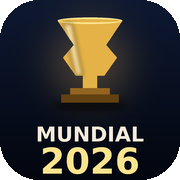
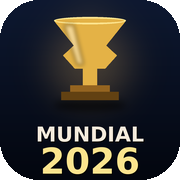
v1.7.1: ícono maskable rediseñado para no recortarse en Android
Problema reportado: al guardar en home de Android, el ícono mostraba
el texto MUNDIAL 2026 recortado por la máscara squircle del launcher,
y a veces aparecía el logo de Chrome encima (modo "shortcut", no PWA).

Cambios:
- ícono maskable rediseñado: solo el trofeo bien centrado, SIN texto,
  con todo el contenido importante dentro del cuadrado central del 56%
  del canvas (que es la zona segura para cualquier máscara que use
  Android — círculo, squircle, redondeada, etc.).
- Se agregan dos archivos: icon-192-maskable.png e
  icon-512-maskable.png con el diseño tight.
- Los íconos "any" (icon-{100,180,192,512}.png) mantienen el diseño
  con texto MUNDIAL + 2026, porque se usan en barras de navegador,
  favicon, y otros contextos donde no se aplica máscara.
- manifest.webmanifest ahora declara ambos tamaños de maskable
  (192 + 512) para máxima compatibilidad con Android Chrome.
- sw.js precachea el nuevo icon-192-maskable.png.

Cache busting v=1.7.1 + CACHE_VERSION='album-2026-v1.7.1'.

NOTA AL USUARIO: el logo de Chrome encima del ícono indica que la app
se guardó como "shortcut" en lugar de instalarse como PWA. La solución:
desinstalar el shortcut y volver a abrir https://rundes.github.io/Mundial2026/
en Chrome, entrar a la pestaña Compartir y tocar el botón
"Instalar en mi celular" (o el menú ⋮ → "Instalar aplicación"),
en vez de usar "Agregar a pantalla de inicio".

diff --git a/index.html b/index.html
@@ -36,10 +36,10 @@
 
 <link rel="canonical" href="https://rundes.github.io/Mundial2026/">
 
-<link rel="icon" type="image/png" sizes="100x100" href="./icons/icon-100.png?v=1.7.0">
-<link rel="icon" type="image/png" sizes="192x192" href="./icons/icon-192.png?v=1.7.0">
-<link rel="apple-touch-icon" sizes="180x180" href="./icons/icon-180.png?v=1.7.0">
-<link rel="manifest" href="./manifest.webmanifest?v=1.7.0">
+<link rel="icon" type="image/png" sizes="100x100" href="./icons/icon-100.png?v=1.7.1">
+<link rel="icon" type="image/png" sizes="192x192" href="./icons/icon-192.png?v=1.7.1">
+<link rel="apple-touch-icon" sizes="180x180" href="./icons/icon-180.png?v=1.7.1">
+<link rel="manifest" href="./manifest.webmanifest?v=1.7.1">
 <title>Mi Álbum Mundial 2026</title>
 <style>
 *,:after,:before{--tw-border-spacing-x:0;--tw-border-spacing-y:0;--tw-translate-x:0;--tw-translate-y:0;--tw-rotate:0;--tw-skew-x:0;--tw-skew-y:0;--tw-scale-x:1;--tw-scale-y:1;--tw-pan-x: ;--tw-pan-y: ;--tw-pinch-zoom: ;--tw-scroll-snap-strictness:proximity;--tw-gradient-from-position: ;--tw-gradient-via-position: ;--tw-gradient-to-position: ;--tw-ordinal: ;--tw-slashed-zero: ;--tw-numeric-figure: ;--tw-numeric-spacing: ;--tw-numeric-fraction: ;--tw-ring-inset: ;--tw-ring-offset-width:0px;--tw-ring-offset-color:#fff;--tw-ring-color:rgba(59,130,246,.5);--tw-ring-offset-shadow:0 0 #0000;--tw-ring-shadow:0 0 #0000;--tw-shadow:0 0 #0000;--tw-shadow-colored:0 0 #0000;--tw-blur: ;--tw-brightness: ;--tw-contrast: ;--tw-grayscale: ;--tw-hue-rotate: ;--tw-invert: ;--tw-saturate: ;--tw-sepia: ;--tw-drop-shadow: ;--tw-backdrop-blur: ;--tw-backdrop-brightness: ;--tw-backdrop-contrast: ;--tw-backdrop-grayscale: ;--tw-backdrop-hue-rotate: ;--tw-backdrop-invert: ;--tw-backdrop-opacity: ;--tw-backdrop-saturate: ;--tw-backdrop-sepia: ;--tw-contain-size: ;--tw-contain-layout: ;--tw-contain-paint: ;--tw-contain-style: }::backdrop{--tw-border-spacing-x:0;--tw-border-spacing-y:0;--tw-translate-x:0;--tw-translate-y:0;--tw-rotate:0;--tw-skew-x:0;--tw-skew-y:0;--tw-scale-x:1;--tw-scale-y:1;--tw-pan-x: ;--tw-pan-y: ;--tw-pinch-zoom: ;--tw-scroll-snap-strictness:proximity;--tw-gradient-from-position: ;--tw-gradient-via-position: ;--tw-gradient-to-position: ;--tw-ordinal: ;--tw-slashed-zero: ;--tw-numeric-figure: ;--tw-numeric-spacing: ;--tw-numeric-fraction: ;--tw-ring-inset: ;--tw-ring-offset-width:0px;--tw-ring-offset-color:#fff;--tw-ring-color:rgba(59,130,246,.5);--tw-ring-offset-shadow:0 0 #0000;--tw-ring-shadow:0 0 #0000;--tw-shadow:0 0 #0000;--tw-shadow-colored:0 0 #0000;--tw-blur: ;--tw-brightness: ;--tw-contrast: ;--tw-grayscale: ;--tw-hue-rotate: ;--tw-invert: ;--tw-saturate: ;--tw-sepia: ;--tw-drop-shadow: ;--tw-backdrop-blur: ;--tw-backdrop-brightness: ;--tw-backdrop-contrast: ;--tw-backdrop-grayscale: ;--tw-backdrop-hue-rotate: ;--tw-backdrop-invert: ;--tw-backdrop-opacity: ;--tw-backdrop-saturate: ;--tw-backdrop-sepia: ;--tw-contain-size: ;--tw-contain-layout: ;--tw-contain-paint: ;--tw-contain-style: }/*! tailwindcss v3.4.16 | MIT License | https://tailwindcss.com*/*,:after,:before{box-sizing:border-box;border:0 solid #e5e7eb}:after,:before{--tw-content:""}:host,html{line-height:1.5;-webkit-text-size-adjust:100%;-moz-tab-size:4;-o-tab-size:4;tab-size:4;font-family:ui-sans-serif,system-ui,sans-serif,Apple Color Emoji,Segoe UI Emoji,Segoe UI Symbol,Noto Color Emoji;font-feature-settings:normal;font-variation-settings:normal;-webkit-tap-highlight-color:transparent}body{margin:0;line-height:inherit}hr{height:0;color:inherit;border-top-width:1px}abbr:where([title]){-webkit-text-decoration:underline dotted;text-decoration:underline dotted}h1,h2,h3,h4,h5,h6{font-size:inherit;font-weight:inherit}a{color:inherit;text-decoration:inherit}b,strong{font-weight:bolder}code,kbd,pre,samp{font-family:ui-monospace,SFMono-Regular,Menlo,Monaco,Consolas,Liberation Mono,Courier New,monospace;font-feature-settings:normal;font-variation-settings:normal;font-size:1em}small{font-size:80%}sub,sup{font-size:75%;line-height:0;position:relative;vertical-align:baseline}sub{bottom:-.25em}sup{top:-.5em}table{text-indent:0;border-color:inherit;border-collapse:collapse}button,input,optgroup,select,textarea{font-family:inherit;font-feature-settings:inherit;font-variation-settings:inherit;font-size:100%;font-weight:inherit;line-height:inherit;letter-spacing:inherit;color:inherit;margin:0;padding:0}button,select{text-transform:none}button,input:where([type=button]),input:where([type=reset]),input:where([type=submit]){-webkit-appearance:button;background-color:transparent;background-image:none}:-moz-focusring{outline:auto}:-moz-ui-invalid{box-shadow:none}progress{vertical-align:baseline}::-webkit-inner-spin-button,::-webkit-outer-spin-button{height:auto}[type=search]{-webkit-appearance:textfield;outline-offset:-2px}::-webkit-search-decoration{-webkit-appearance:none}::-webkit-file-upload-button{-webkit-appearance:button;font:inherit}summary{display:list-item}blockquote,dd,dl,figure,h1,h2,h3,h4,h5,h6,hr,p,pre{margin:0}fieldset{margin:0}fieldset,legend{padding:0}menu,ol,ul{list-style:none;margin:0;padding:0}dialog{padding:0}textarea{resize:vertical}input::-moz-placeholder,textarea::-moz-placeholder{opacity:1;color:#9ca3af}input::placeholder,textarea::placeholder{opacity:1;color:#9ca3af}[role=button],button{cursor:pointer}:disabled{cursor:default}audio,canvas,embed,iframe,img,object,svg,video{display:block;vertical-align:middle}img,video{max-width:100%;height:auto}[hidden]:where(:not([hidden=until-found])){display:none}.visible{visibility:visible}.collapse{visibility:collapse}.fixed{position:fixed}.absolute{position:absolute}.relative{position:relative}.sticky{position:sticky}.inset-0{inset:0}.inset-x-0{left:0;right:0}.-bottom-1{bottom:-.25rem}.left-1{left:.25rem}.left-1\/2{left:50%}.right-4{right:1rem}.top-0{top:0}.top-4{top:1rem}.z-20{z-index:20}.z-40{z-index:40}.z-50{z-index:50}.-mx-1{margin-left:-.25rem;margin-right:-.25rem}.mx-auto{margin-left:auto;margin-right:auto}.my-auto{margin-top:auto;margin-bottom:auto}.mb-0{margin-bottom:0}.mb-0\.5{margin-bottom:.125rem}.mb-1{margin-bottom:.25rem}.mb-2{margin-bottom:.5rem}.mb-3{margin-bottom:.75rem}.mb-4{margin-bottom:1rem}.mb-5{margin-bottom:1.25rem}.mb-6{margin-bottom:1.5rem}.mb-8{margin-bottom:2rem}.ml-1{margin-left:.25rem}.ml-2{margin-left:.5rem}.mr-1{margin-right:.25rem}.mr-2{margin-right:.5rem}.mt-0{margin-top:0}.mt-0\.5{margin-top:.125rem}.mt-1{margin-top:.25rem}.mt-1\.5{margin-top:.375rem}.mt-10{margin-top:2.5rem}.mt-12{margin-top:3rem}.mt-2{margin-top:.5rem}.mt-3{margin-top:.75rem}.mt-4{margin-top:1rem}.mt-5{margin-top:1.25rem}.line-clamp-2{overflow:hidden;display:-webkit-box;-webkit-box-orient:vertical;-webkit-line-clamp:2}.block{display:block}.inline-block{display:inline-block}.flex{display:flex}.table{display:table}.grid{display:grid}.hidden{display:none}.aspect-square{aspect-ratio:1/1}.h-1{height:.25rem}.h-1\.5{height:.375rem}.h-12{height:3rem}.h-14{height:3.5rem}.h-2{height:.5rem}.h-20{height:5rem}.h-4{height:1rem}.h-5{height:1.25rem}.h-7{height:1.75rem}.h-9{height:2.25rem}.h-full{height:100%}.max-h-20{max-height:5rem}.max-h-48{max-height:12rem}.w-1\.5{width:.375rem}.w-12{width:3rem}.w-14{width:3.5rem}.w-2{width:.5rem}.w-20{width:5rem}.w-28{width:7rem}.w-4{width:1rem}.w-5{width:1.25rem}.w-6{width:1.5rem}.w-7{width:1.75rem}.w-9{width:2.25rem}.w-\[calc\(100\%-2rem\)\]{width:calc(100% - 2rem)}.w-full{width:100%}.min-w-0{min-width:0}.max-w-3xl{max-width:48rem}.max-w-md{max-width:28rem}.max-w-sm{max-width:24rem}.flex-1{flex:1 1 0%}.shrink-0{flex-shrink:0}.border-collapse{border-collapse:collapse}.-translate-x-1{--tw-translate-x:-0.25rem}.-translate-x-1,.-translate-x-1\/2{transform:translate(var(--tw-translate-x),var(--tw-translate-y)) rotate(var(--tw-rotate)) skewX(var(--tw-skew-x)) skewY(var(--tw-skew-y)) scaleX(var(--tw-scale-x)) scaleY(var(--tw-scale-y))}.-translate-x-1\/2{--tw-translate-x:-50%}.transform{transform:translate(var(--tw-translate-x),var(--tw-translate-y)) rotate(var(--tw-rotate)) skewX(var(--tw-skew-x)) skewY(var(--tw-skew-y)) scaleX(var(--tw-scale-x)) scaleY(var(--tw-scale-y))}.cursor-pointer{cursor:pointer}.resize-none{resize:none}.resize{resize:both}.grid-cols-1{grid-template-columns:repeat(1,minmax(0,1fr))}.grid-cols-2{grid-template-columns:repeat(2,minmax(0,1fr))}.grid-cols-3{grid-template-columns:repeat(3,minmax(0,1fr))}.grid-cols-4{grid-template-columns:repeat(4,minmax(0,1fr))}.grid-cols-5{grid-template-columns:repeat(5,minmax(0,1fr))}.flex-col{flex-direction:column}.items-start{align-items:flex-start}.items-end{align-items:flex-end}.items-center{align-items:center}.items-baseline{align-items:baseline}.justify-center{justify-content:center}.justify-between{justify-content:space-between}.gap-1{gap:.25rem}.gap-1\.5{gap:.375rem}.gap-2{gap:.5rem}.gap-3{gap:.75rem}.gap-4{gap:1rem}.gap-x-1{-moz-column-gap:.25rem;column-gap:.25rem}.gap-x-1\.5{-moz-column-gap:.375rem;column-gap:.375rem}.gap-y-3{row-gap:.75rem}.space-y-1>:not([hidden])~:not([hidden]){--tw-space-y-reverse:0;margin-top:calc(.25rem*(1 - var(--tw-space-y-reverse)));margin-bottom:calc(.25rem*var(--tw-space-y-reverse))}.space-y-1\.5>:not([hidden])~:not([hidden]){--tw-space-y-reverse:0;margin-top:calc(.375rem*(1 - var(--tw-space-y-reverse)));margin-bottom:calc(.375rem*var(--tw-space-y-reverse))}.space-y-2>:not([hidden])~:not([hidden]){--tw-space-y-reverse:0;margin-top:calc(.5rem*(1 - var(--tw-space-y-reverse)));margin-bottom:calc(.5rem*var(--tw-space-y-reverse))}.space-y-3>:not([hidden])~:not([hidden]){--tw-space-y-reverse:0;margin-top:calc(.75rem*(1 - var(--tw-space-y-reverse)));margin-bottom:calc(.75rem*var(--tw-space-y-reverse))}.divide-x>:not([hidden])~:not([hidden]){--tw-divide-x-reverse:0;border-right-width:calc(1px*var(--tw-divide-x-reverse));border-left-width:calc(1px*(1 - var(--tw-divide-x-reverse)))}.divide-gray-100>:not([hidden])~:not([hidden]){--tw-divide-opacity:1;border-color:rgb(243 244 246/var(--tw-divide-opacity,1))}.overflow-hidden{overflow:hidden}.overflow-y-auto{overflow-y:auto}.truncate{overflow:hidden;text-overflow:ellipsis;white-space:nowrap}.break-all{word-break:break-all}.rounded{border-radius:.25rem}.rounded-2xl{border-radius:1rem}.rounded-3xl{border-radius:1.5rem}.rounded-full{border-radius:9999px}.rounded-lg{border-radius:.5rem}.rounded-md{border-radius:.375rem}.rounded-xl{border-radius:.75rem}.rounded-t-3xl{border-top-left-radius:1.5rem;border-top-right-radius:1.5rem}.border{border-width:1px}.border-2{border-width:2px}.border-4{border-width:4px}.border-b{border-bottom-width:1px}.border-b-2{border-bottom-width:2px}.border-t{border-top-width:1px}.border-amber-200{--tw-border-opacity:1;border-color:rgb(253 230 138/var(--tw-border-opacity,1))}.border-amber-300{--tw-border-opacity:1;border-color:rgb(252 211 77/var(--tw-border-opacity,1))}.border-amber-400{--tw-border-opacity:1;border-color:rgb(251 191 36/var(--tw-border-opacity,1))}.border-blue-200{--tw-border-opacity:1;border-color:rgb(191 219 254/var(--tw-border-opacity,1))}.border-blue-300{--tw-border-opacity:1;border-color:rgb(147 197 253/var(--tw-border-opacity,1))}.border-emerald-200{--tw-border-opacity:1;border-color:rgb(167 243 208/var(--tw-border-opacity,1))}.border-emerald-300{--tw-border-opacity:1;border-color:rgb(110 231 183/var(--tw-border-opacity,1))}.border-gray-100{--tw-border-opacity:1;border-color:rgb(243 244 246/var(--tw-border-opacity,1))}.border-gray-200{--tw-border-opacity:1;border-color:rgb(229 231 235/var(--tw-border-opacity,1))}.border-gray-300{--tw-border-opacity:1;border-color:rgb(209 213 219/var(--tw-border-opacity,1))}.border-green-200{--tw-border-opacity:1;border-color:rgb(187 247 208/var(--tw-border-opacity,1))}.border-indigo-200{--tw-border-opacity:1;border-color:rgb(199 210 254/var(--tw-border-opacity,1))}.border-indigo-300{--tw-border-opacity:1;border-color:rgb(165 180 252/var(--tw-border-opacity,1))}.border-pink-200{--tw-border-opacity:1;border-color:rgb(251 207 232/var(--tw-border-opacity,1))}.border-pink-300{--tw-border-opacity:1;border-color:rgb(249 168 212/var(--tw-border-opacity,1))}.border-purple-200{--tw-border-opacity:1;border-color:rgb(233 213 255/var(--tw-border-opacity,1))}.border-purple-300{--tw-border-opacity:1;border-color:rgb(216 180 254/var(--tw-border-opacity,1))}.border-red-400{--tw-border-opacity:1;border-color:rgb(248 113 113/var(--tw-border-opacity,1))}.border-rose-200{--tw-border-opacity:1;border-color:rgb(254 205 211/var(--tw-border-opacity,1))}.border-yellow-200{--tw-border-opacity:1;border-color:rgb(254 240 138/var(--tw-border-opacity,1))}.bg-amber-100{--tw-bg-opacity:1;background-color:rgb(254 243 199/var(--tw-bg-opacity,1))}.bg-amber-50{--tw-bg-opacity:1;background-color:rgb(255 251 235/var(--tw-bg-opacity,1))}.bg-amber-500{--tw-bg-opacity:1;background-color:rgb(245 158 11/var(--tw-bg-opacity,1))}.bg-amber-600{--tw-bg-opacity:1;background-color:rgb(217 119 6/var(--tw-bg-opacity,1))}.bg-black{--tw-bg-opacity:1;background-color:rgb(0 0 0/var(--tw-bg-opacity,1))}.bg-black\/60{background-color:rgba(0,0,0,.6)}.bg-black\/80{background-color:rgba(0,0,0,.8)}.bg-blue-50{--tw-bg-opacity:1;background-color:rgb(239 246 255/var(--tw-bg-opacity,1))}.bg-blue-500{--tw-bg-opacity:1;background-color:rgb(59 130 246/var(--tw-bg-opacity,1))}.bg-blue-600{--tw-bg-opacity:1;background-color:rgb(37 99 235/var(--tw-bg-opacity,1))}.bg-emerald-100{--tw-bg-opacity:1;background-color:rgb(209 250 229/var(--tw-bg-opacity,1))}.bg-emerald-50{--tw-bg-opacity:1;background-color:rgb(236 253 245/var(--tw-bg-opacity,1))}.bg-emerald-600{--tw-bg-opacity:1;background-color:rgb(5 150 105/var(--tw-bg-opacity,1))}.bg-gray-100{--tw-bg-opacity:1;background-color:rgb(243 244 246/var(--tw-bg-opacity,1))}.bg-gray-300{--tw-bg-opacity:1;background-color:rgb(209 213 219/var(--tw-bg-opacity,1))}.bg-gray-50{--tw-bg-opacity:1;background-color:rgb(249 250 251/var(--tw-bg-opacity,1))}.bg-gray-900{--tw-bg-opacity:1;background-color:rgb(17 24 39/var(--tw-bg-opacity,1))}.bg-green-600{--tw-bg-opacity:1;background-color:rgb(22 163 74/var(--tw-bg-opacity,1))}.bg-indigo-50{--tw-bg-opacity:1;background-color:rgb(238 242 255/var(--tw-bg-opacity,1))}.bg-indigo-600{--tw-bg-opacity:1;background-color:rgb(79 70 229/var(--tw-bg-opacity,1))}.bg-pink-500{--tw-bg-opacity:1;background-color:rgb(236 72 153/var(--tw-bg-opacity,1))}.bg-purple-50{--tw-bg-opacity:1;background-color:rgb(250 245 255/var(--tw-bg-opacity,1))}.bg-purple-600{--tw-bg-opacity:1;background-color:rgb(147 51 234/var(--tw-bg-opacity,1))}.bg-red-100{--tw-bg-opacity:1;background-color:rgb(254 226 226/var(--tw-bg-opacity,1))}.bg-red-50{--tw-bg-opacity:1;background-color:rgb(254 242 242/var(--tw-bg-opacity,1))}.bg-red-600{--tw-bg-opacity:1;background-color:rgb(220 38 38/var(--tw-bg-opacity,1))}.bg-rose-600{--tw-bg-opacity:1;background-color:rgb(225 29 72/var(--tw-bg-opacity,1))}.bg-transparent{background-color:transparent}.bg-white{--tw-bg-opacity:1;background-color:rgb(255 255 255/var(--tw-bg-opacity,1))}.bg-white\/10{background-color:hsla(0,0%,100%,.1)}.bg-white\/70{background-color:hsla(0,0%,100%,.7)}.bg-white\/95{background-color:hsla(0,0%,100%,.95)}.bg-yellow-50{--tw-bg-opacity:1;background-color:rgb(254 252 232/var(--tw-bg-opacity,1))}.bg-gradient-to-br{background-image:linear-gradient(to bottom right,var(--tw-gradient-stops))}.bg-gradient-to-r{background-image:linear-gradient(to right,var(--tw-gradient-stops))}.from-amber-400{--tw-gradient-from:#fbbf24 var(--tw-gradient-from-position);--tw-gradient-to:rgba(251,191,36,0) var(--tw-gradient-to-position);--tw-gradient-stops:var(--tw-gradient-from),var(--tw-gradient-to)}.from-amber-50{--tw-gradient-from:#fffbeb var(--tw-gradient-from-position);--tw-gradient-to:rgba(255,251,235,0) var(--tw-gradient-to-position);--tw-gradient-stops:var(--tw-gradient-from),var(--tw-gradient-to)}.from-emerald-50{--tw-gradient-from:#ecfdf5 var(--tw-gradient-from-position);--tw-gradient-to:rgba(236,253,245,0) var(--tw-gradient-to-position);--tw-gradient-stops:var(--tw-gradient-from),var(--tw-gradient-to)}.from-green-50{--tw-gradient-from:#f0fdf4 var(--tw-gradient-from-position);--tw-gradient-to:rgba(240,253,244,0) var(--tw-gradient-to-position);--tw-gradient-stops:var(--tw-gradient-from),var(--tw-gradient-to)}.from-indigo-50{--tw-gradient-from:#eef2ff var(--tw-gradient-from-position);--tw-gradient-to:rgba(238,242,255,0) var(--tw-gradient-to-position);--tw-gradient-stops:var(--tw-gradient-from),var(--tw-gradient-to)}.from-pink-50{--tw-gradient-from:#fdf2f8 var(--tw-gradient-from-position);--tw-gradient-to:rgba(253,242,248,0) var(--tw-gradient-to-position);--tw-gradient-stops:var(--tw-gradient-from),var(--tw-gradient-to)}.from-purple-600{--tw-gradient-from:#9333ea var(--tw-gradient-from-position);--tw-gradient-to:rgba(147,51,234,0) var(--tw-gradient-to-position);--tw-gradient-stops:var(--tw-gradient-from),var(--tw-gradient-to)}.from-rose-50{--tw-gradient-from:#fff1f2 var(--tw-gradient-from-position);--tw-gradient-to:rgba(255,241,242,0) var(--tw-gradient-to-position);--tw-gradient-stops:var(--tw-gradient-from),var(--tw-gradient-to)}.from-slate-900{--tw-gradient-from:#0f172a var(--tw-gradient-from-position);--tw-gradient-to:rgba(15,23,42,0) var(--tw-gradient-to-position);--tw-gradient-stops:var(--tw-gradient-from),var(--tw-gradient-to)}.via-fuchsia-500{--tw-gradient-to:rgba(217,70,239,0) var(--tw-gradient-to-position);--tw-gradient-stops:var(--tw-gradient-from),#d946ef var(--tw-gradient-via-position),var(--tw-gradient-to)}.to-blue-50{--tw-gradient-to:#eff6ff var(--tw-gradient-to-position)}.to-emerald-50{--tw-gradient-to:#ecfdf5 var(--tw-gradient-to-position)}.to-green-50{--tw-gradient-to:#f0fdf4 var(--tw-gradient-to-position)}.to-indigo-900{--tw-gradient-to:#312e81 var(--tw-gradient-to-position)}.to-orange-50{--tw-gradient-to:#fff7ed var(--tw-gradient-to-position)}.to-orange-500{--tw-gradient-to:#f97316 var(--tw-gradient-to-position)}.to-pink-50{--tw-gradient-to:#fdf2f8 var(--tw-gradient-to-position)}.to-pink-500{--tw-gradient-to:#ec4899 var(--tw-gradient-to-position)}.to-rose-50{--tw-gradient-to:#fff1f2 var(--tw-gradient-to-position)}.to-yellow-50{--tw-gradient-to:#fefce8 var(--tw-gradient-to-position)}.p-0{padding:0}.p-1{padding:.25rem}.p-3{padding:.75rem}.p-4{padding:1rem}.p-5{padding:1.25rem}.p-6{padding:1.5rem}.px-1{padding-left:.25rem;padding-right:.25rem}.px-1\.5{padding-left:.375rem;padding-right:.375rem}.px-2{padding-left:.5rem;padding-right:.5rem}.px-2\.5{padding-left:.625rem;padding-right:.625rem}.px-3{padding-left:.75rem;padding-right:.75rem}.px-4{padding-left:1rem;padding-right:1rem}.py-0{padding-top:0;padding-bottom:0}.py-0\.5{padding-top:.125rem;padding-bottom:.125rem}.py-1{padding-top:.25rem;padding-bottom:.25rem}.py-1\.5{padding-top:.375rem;padding-bottom:.375rem}.py-2{padding-top:.5rem;padding-bottom:.5rem}.py-2\.5{padding-top:.625rem;padding-bottom:.625rem}.py-3{padding-top:.75rem;padding-bottom:.75rem}.py-4{padding-top:1rem;padding-bottom:1rem}.py-6{padding-top:1.5rem;padding-bottom:1.5rem}.pb-12{padding-bottom:3rem}.pb-2{padding-bottom:.5rem}.pb-3{padding-bottom:.75rem}.pb-32{padding-bottom:8rem}.pb-5{padding-bottom:1.25rem}.pb-6{padding-bottom:1.5rem}.pb-8{padding-bottom:2rem}.pt-1{padding-top:.25rem}.pt-3{padding-top:.75rem}.pt-4{padding-top:1rem}.text-left{text-align:left}.text-center{text-align:center}.text-right{text-align:right}.align-text-bottom{vertical-align:text-bottom}.font-mono{font-family:ui-monospace,SFMono-Regular,Menlo,Monaco,Consolas,Liberation Mono,Courier New,monospace}.text-2xl{font-size:1.5rem;line-height:2rem}.text-3xl{font-size:1.875rem;line-height:2.25rem}.text-4xl{font-size:2.25rem;line-height:2.5rem}.text-\[10px\]{font-size:10px}.text-\[11px\]{font-size:11px}.text-\[8px\]{font-size:8px}.text-\[9px\]{font-size:9px}.text-base{font-size:1rem;line-height:1.5rem}.text-lg{font-size:1.125rem;line-height:1.75rem}.text-sm{font-size:.875rem;line-height:1.25rem}.text-xl{font-size:1.25rem;line-height:1.75rem}.text-xs{font-size:.75rem;line-height:1rem}.font-bold{font-weight:700}.font-medium{font-weight:500}.font-semibold{font-weight:600}.uppercase{text-transform:uppercase}.italic{font-style:italic}.tabular-nums{--tw-numeric-spacing:tabular-nums;font-variant-numeric:var(--tw-ordinal) var(--tw-slashed-zero) var(--tw-numeric-figure) var(--tw-numeric-spacing) var(--tw-numeric-fraction)}.leading-none{line-height:1}.leading-relaxed{line-height:1.625}.leading-snug{line-height:1.375}.leading-tight{line-height:1.25}.tracking-\[0\.15em\]{letter-spacing:.15em}.tracking-\[0\.1em\]{letter-spacing:.1em}.tracking-\[0\.2em\]{letter-spacing:.2em}.tracking-tight{letter-spacing:-.025em}.tracking-wider{letter-spacing:.05em}.text-amber-600{--tw-text-opacity:1;color:rgb(217 119 6/var(--tw-text-opacity,1))}.text-amber-700{--tw-text-opacity:1;color:rgb(180 83 9/var(--tw-text-opacity,1))}.text-amber-900{--tw-text-opacity:1;color:rgb(120 53 15/var(--tw-text-opacity,1))}.text-blue-600{--tw-text-opacity:1;color:rgb(37 99 235/var(--tw-text-opacity,1))}.text-blue-700{--tw-text-opacity:1;color:rgb(29 78 216/var(--tw-text-opacity,1))}.text-emerald-600{--tw-text-opacity:1;color:rgb(5 150 105/var(--tw-text-opacity,1))}.text-emerald-700{--tw-text-opacity:1;color:rgb(4 120 87/var(--tw-text-opacity,1))}.text-emerald-800{--tw-text-opacity:1;color:rgb(6 95 70/var(--tw-text-opacity,1))}.text-emerald-900{--tw-text-opacity:1;color:rgb(6 78 59/var(--tw-text-opacity,1))}.text-gray-300{--tw-text-opacity:1;color:rgb(209 213 219/var(--tw-text-opacity,1))}.text-gray-400{--tw-text-opacity:1;color:rgb(156 163 175/var(--tw-text-opacity,1))}.text-gray-500{--tw-text-opacity:1;color:rgb(107 114 128/var(--tw-text-opacity,1))}.text-gray-600{--tw-text-opacity:1;color:rgb(75 85 99/var(--tw-text-opacity,1))}.text-gray-700{--tw-text-opacity:1;color:rgb(55 65 81/var(--tw-text-opacity,1))}.text-gray-800{--tw-text-opacity:1;color:rgb(31 41 55/var(--tw-text-opacity,1))}.text-gray-900{--tw-text-opacity:1;color:rgb(17 24 39/var(--tw-text-opacity,1))}.text-green-600{--tw-text-opacity:1;color:rgb(22 163 74/var(--tw-text-opacity,1))}.text-green-700{--tw-text-opacity:1;color:rgb(21 128 61/var(--tw-text-opacity,1))}.text-indigo-200{--tw-text-opacity:1;color:rgb(199 210 254/var(--tw-text-opacity,1))}.text-indigo-600{--tw-text-opacity:1;color:rgb(79 70 229/var(--tw-text-opacity,1))}.text-indigo-700{--tw-text-opacity:1;color:rgb(67 56 202/var(--tw-text-opacity,1))}.text-pink-700{--tw-text-opacity:1;color:rgb(190 24 93/var(--tw-text-opacity,1))}.text-purple-600{--tw-text-opacity:1;color:rgb(147 51 234/var(--tw-text-opacity,1))}.text-purple-700{--tw-text-opacity:1;color:rgb(126 34 206/var(--tw-text-opacity,1))}.text-red-500{--tw-text-opacity:1;color:rgb(239 68 68/var(--tw-text-opacity,1))}.text-red-600{--tw-text-opacity:1;color:rgb(220 38 38/var(--tw-text-opacity,1))}.text-red-700{--tw-text-opacity:1;color:rgb(185 28 28/var(--tw-text-opacity,1))}.text-red-900{--tw-text-opacity:1;color:rgb(127 29 29/var(--tw-text-opacity,1))}.text-rose-600{--tw-text-opacity:1;color:rgb(225 29 72/var(--tw-text-opacity,1))}.text-rose-700{--tw-text-opacity:1;color:rgb(190 18 60/var(--tw-text-opacity,1))}.text-white{--tw-text-opacity:1;color:rgb(255 255 255/var(--tw-text-opacity,1))}.text-white\/80{color:hsla(0,0%,100%,.8)}.text-white\/90{color:hsla(0,0%,100%,.9)}.text-yellow-700{--tw-text-opacity:1;color:rgb(161 98 7/var(--tw-text-opacity,1))}.text-yellow-900{--tw-text-opacity:1;color:rgb(113 63 18/var(--tw-text-opacity,1))}.underline{text-decoration-line:underline}.opacity-40{opacity:.4}.opacity-50{opacity:.5}.opacity-60{opacity:.6}.opacity-70{opacity:.7}.opacity-90{opacity:.9}.shadow-md{--tw-shadow:0 4px 6px -1px rgba(0,0,0,.1),0 2px 4px -2px rgba(0,0,0,.1);--tw-shadow-colored:0 4px 6px -1px var(--tw-shadow-color),0 2px 4px -2px var(--tw-shadow-color)}.shadow-md,.shadow-sm{box-shadow:var(--tw-ring-offset-shadow,0 0 #0000),var(--tw-ring-shadow,0 0 #0000),var(--tw-shadow)}.shadow-sm{--tw-shadow:0 1px 2px 0 rgba(0,0,0,.05);--tw-shadow-colored:0 1px 2px 0 var(--tw-shadow-color)}.shadow-xl{--tw-shadow:0 20px 25px -5px rgba(0,0,0,.1),0 8px 10px -6px rgba(0,0,0,.1);--tw-shadow-colored:0 20px 25px -5px var(--tw-shadow-color),0 8px 10px -6px var(--tw-shadow-color);box-shadow:var(--tw-ring-offset-shadow,0 0 #0000),var(--tw-ring-shadow,0 0 #0000),var(--tw-shadow)}.outline{outline-style:solid}.blur{--tw-blur:blur(8px)}.blur,.grayscale{filter:var(--tw-blur) var(--tw-brightness) var(--tw-contrast) var(--tw-grayscale) var(--tw-hue-rotate) var(--tw-invert) var(--tw-saturate) var(--tw-sepia) var(--tw-drop-shadow)}.grayscale{--tw-grayscale:grayscale(100%)}.filter{filter:var(--tw-blur) var(--tw-brightness) var(--tw-contrast) var(--tw-grayscale) var(--tw-hue-rotate) var(--tw-invert) var(--tw-saturate) var(--tw-sepia) var(--tw-drop-shadow)}.backdrop-blur-md{--tw-backdrop-blur:blur(12px);-webkit-backdrop-filter:var(--tw-backdrop-blur) var(--tw-backdrop-brightness) var(--tw-backdrop-contrast) var(--tw-backdrop-grayscale) var(--tw-backdrop-hue-rotate) var(--tw-backdrop-invert) var(--tw-backdrop-opacity) var(--tw-backdrop-saturate) var(--tw-backdrop-sepia);backdrop-filter:var(--tw-backdrop-blur) var(--tw-backdrop-brightness) var(--tw-backdrop-contrast) var(--tw-backdrop-grayscale) var(--tw-backdrop-hue-rotate) var(--tw-backdrop-invert) var(--tw-backdrop-opacity) var(--tw-backdrop-saturate) var(--tw-backdrop-sepia)}.transition-all{transition-property:all;transition-timing-function:cubic-bezier(.4,0,.2,1);transition-duration:.15s}.transition-colors{transition-property:color,background-color,border-color,text-decoration-color,fill,stroke;transition-timing-function:cubic-bezier(.4,0,.2,1);transition-duration:.15s}.duration-300{transition-duration:.3s}.focus\:border-amber-500:focus{--tw-border-opacity:1;border-color:rgb(245 158 11/var(--tw-border-opacity,1))}.focus\:border-emerald-500:focus{--tw-border-opacity:1;border-color:rgb(16 185 129/var(--tw-border-opacity,1))}.focus\:outline-none:focus{outline:2px solid transparent;outline-offset:2px}.active\:bg-amber-100:active{--tw-bg-opacity:1;background-color:rgb(254 243 199/var(--tw-bg-opacity,1))}.active\:bg-amber-50:active{--tw-bg-opacity:1;background-color:rgb(255 251 235/var(--tw-bg-opacity,1))}.active\:bg-amber-600:active{--tw-bg-opacity:1;background-color:rgb(217 119 6/var(--tw-bg-opacity,1))}.active\:bg-amber-700:active{--tw-bg-opacity:1;background-color:rgb(180 83 9/var(--tw-bg-opacity,1))}.active\:bg-blue-50:active{--tw-bg-opacity:1;background-color:rgb(239 246 255/var(--tw-bg-opacity,1))}.active\:bg-emerald-100:active{--tw-bg-opacity:1;background-color:rgb(209 250 229/var(--tw-bg-opacity,1))}.active\:bg-emerald-700:active{--tw-bg-opacity:1;background-color:rgb(4 120 87/var(--tw-bg-opacity,1))}.active\:bg-gray-100:active{--tw-bg-opacity:1;background-color:rgb(243 244 246/var(--tw-bg-opacity,1))}.active\:bg-gray-200:active{--tw-bg-opacity:1;background-color:rgb(229 231 235/var(--tw-bg-opacity,1))}.active\:bg-green-700:active{--tw-bg-opacity:1;background-color:rgb(21 128 61/var(--tw-bg-opacity,1))}.active\:bg-indigo-100:active{--tw-bg-opacity:1;background-color:rgb(224 231 255/var(--tw-bg-opacity,1))}.active\:bg-indigo-50:active{--tw-bg-opacity:1;background-color:rgb(238 242 255/var(--tw-bg-opacity,1))}.active\:bg-indigo-700:active{--tw-bg-opacity:1;background-color:rgb(67 56 202/var(--tw-bg-opacity,1))}.active\:bg-purple-100:active{--tw-bg-opacity:1;background-color:rgb(243 232 255/var(--tw-bg-opacity,1))}.active\:bg-purple-50:active{--tw-bg-opacity:1;background-color:rgb(250 245 255/var(--tw-bg-opacity,1))}.active\:bg-purple-700:active{--tw-bg-opacity:1;background-color:rgb(126 34 206/var(--tw-bg-opacity,1))}.active\:bg-rose-700:active{--tw-bg-opacity:1;background-color:rgb(190 18 60/var(--tw-bg-opacity,1))}.active\:text-blue-800:active{--tw-text-opacity:1;color:rgb(30 64 175/var(--tw-text-opacity,1))}.active\:text-emerald-900:active{--tw-text-opacity:1;color:rgb(6 78 59/var(--tw-text-opacity,1))}.active\:text-gray-600:active{--tw-text-opacity:1;color:rgb(75 85 99/var(--tw-text-opacity,1))}.active\:text-gray-700:active{--tw-text-opacity:1;color:rgb(55 65 81/var(--tw-text-opacity,1))}.active\:text-green-900:active{--tw-text-opacity:1;color:rgb(20 83 45/var(--tw-text-opacity,1))}.active\:text-indigo-800:active{--tw-text-opacity:1;color:rgb(55 48 163/var(--tw-text-opacity,1))}.active\:text-red-500:active{--tw-text-opacity:1;color:rgb(239 68 68/var(--tw-text-opacity,1))}.active\:text-white:active{--tw-text-opacity:1;color:rgb(255 255 255/var(--tw-text-opacity,1))}.active\:text-yellow-900:active{--tw-text-opacity:1;color:rgb(113 63 18/var(--tw-text-opacity,1))}@media (min-width:640px){.sm\:grid-cols-10{grid-template-columns:repeat(10,minmax(0,1fr))}.sm\:grid-cols-2{grid-template-columns:repeat(2,minmax(0,1fr))}.sm\:grid-cols-7{grid-template-columns:repeat(7,minmax(0,1fr))}.sm\:items-center{align-items:center}.sm\:rounded-3xl{border-radius:1.5rem}.sm\:p-4{padding:1rem}.sm\:text-sm{font-size:.875rem;line-height:1.25rem}}
@@ -173,7 +173,7 @@ const ejecutarPromptInstalacion = async () => {
 // ====== CONTROL DE VERSIÓN Y ACTUALIZACIONES ======
 // La versión que se ve en el footer y se compara con la del SW para detectar
 // si hay una versión nueva descargada esperando aplicarse.
-const APP_VERSION = '1.7.0';
+const APP_VERSION = '1.7.1';
 const APP_BUILD = '2026-05-18';
 const STORAGE_KEY_UPDATE_DISMISS = 'album-mundial-2026-update-dismiss';
 
@@ -2595,7 +2595,7 @@ const renderTabAmigos = () => {
           <div class="bg-white rounded-xl p-3 border border-purple-200">
             <div class="text-[10px] font-bold tracking-wider text-gray-500 uppercase mb-1">Vista previa del link</div>
             <div class="flex gap-3 items-center">
-              <img src="./icons/icon-192.png?v=1.7.0" alt="" class="w-12 h-12 rounded-lg shrink-0">
+              <img src="./icons/icon-192.png?v=1.7.1" alt="" class="w-12 h-12 rounded-lg shrink-0">
               <div class="min-w-0 flex-1">
                 <div class="text-xs font-bold text-gray-900 leading-tight">⚽ Mi Álbum Mundial 2026 — gratis, sin registro</div>
                 <div class="text-[10px] text-gray-600 leading-snug mt-0.5 line-clamp-2">App para llevar tu álbum del Mundial 2026 y coordinar cambios por WhatsApp.</div>
@@ -2871,7 +2871,7 @@ function render() {
     <footer class="max-w-3xl mx-auto px-4 pb-12 pt-4 border-t border-gray-100">
       <div class="flex items-center justify-between text-[11px] text-gray-400">
         <div class="flex items-center gap-2">
-          <img src="./icons/icon-100.png?v=1.7.0" alt="" width="20" height="20" class="rounded-md" onerror="this.style.display='none'">
+          <img src="./icons/icon-100.png?v=1.7.1" alt="" width="20" height="20" class="rounded-md" onerror="this.style.display='none'">
           <span class="font-semibold text-gray-500">Álbum Mundial 2026</span>
           <span class="tabular-nums">v${APP_VERSION}</span>
         </div>

diff --git a/sw.js b/sw.js
@@ -13,16 +13,17 @@
 // hacerlo nuestro listener 'updatefound' en el HTML va a disparar y mostrarle
 // al usuario el banner "Hay una versión nueva".
 
-const CACHE_VERSION = 'album-2026-v1.7.0';
+const CACHE_VERSION = 'album-2026-v1.7.1';
 const URLS_A_CACHEAR = [
   './',
   './index.html',
-  './manifest.webmanifest?v=1.7.0',
-  './icons/icon-100.png?v=1.7.0',
-  './icons/icon-180.png?v=1.7.0',
-  './icons/icon-192.png?v=1.7.0',
-  './icons/icon-512.png?v=1.7.0',
-  './icons/icon-512-maskable.png?v=1.7.0',
+  './manifest.webmanifest?v=1.7.1',
+  './icons/icon-100.png?v=1.7.1',
+  './icons/icon-180.png?v=1.7.1',
+  './icons/icon-192.png?v=1.7.1',
+  './icons/icon-512.png?v=1.7.1',
+  './icons/icon-192-maskable.png?v=1.7.1',
+  './icons/icon-512-maskable.png?v=1.7.1',
 ];
 
 self.addEventListener('install', (event) => {
